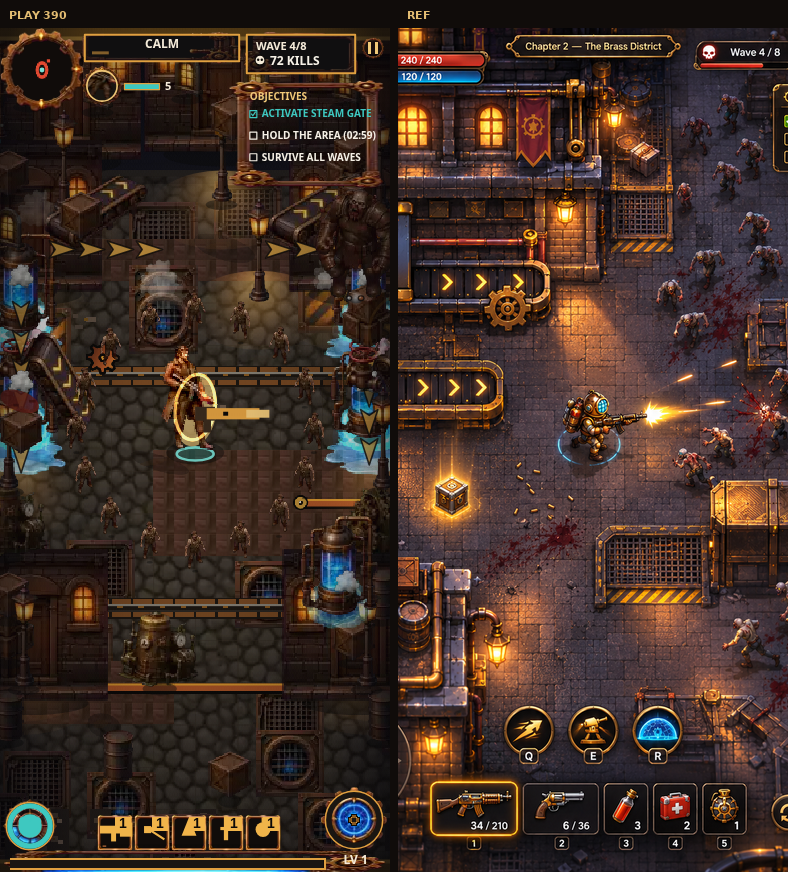
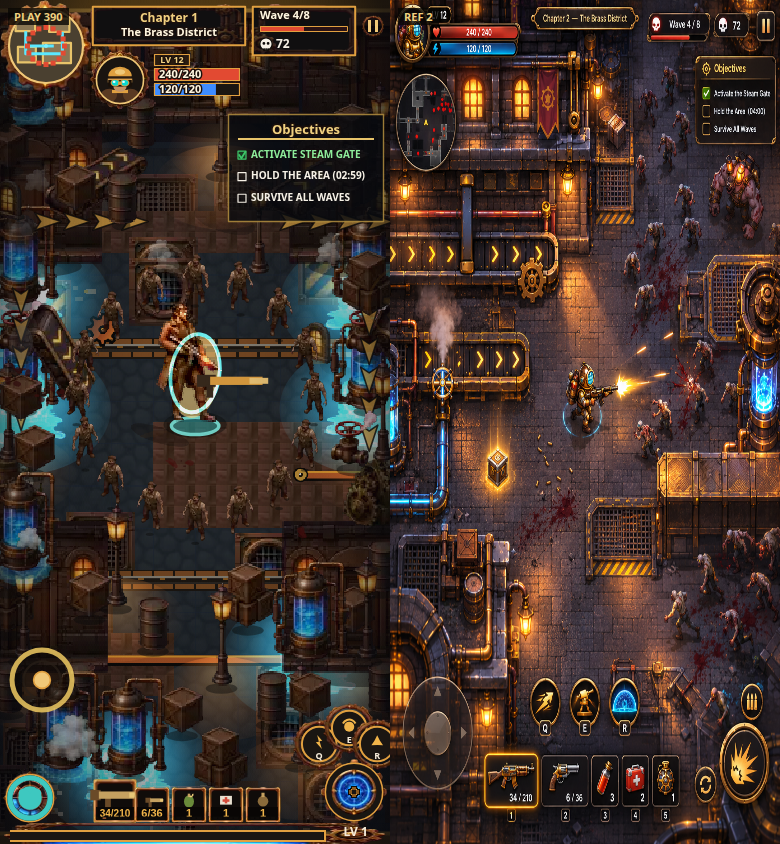
fix(hud): bind chapter chrome to live gate and hold
The #58 wave chip and objectives card now read World.gate and holdLeft.
Fresh 390 compare shots sit next to both art bible frames.

diff --git a/test/render.test.ts b/test/render.test.ts
@@ -154,6 +154,41 @@ describe("weapon rack", () => {
     expect(texts).toContain("HOLD THE AREA");
     expect(texts).toContain("SURVIVE ALL WAVES");
   });
+
+  it("binds wave kills and hold clock to live chapter state", () => {
+    const texts: string[] = [];
+    const vp = readViewport({ innerWidth: 390, innerHeight: 844, devicePixelRatio: 3 }, ZERO_INSETS);
+    const pv = playView(vp.cssW, vp.cssH);
+    const fit = computeFit(vp.cssW, vp.cssH, vp.dpr, pv.viewW, pv.viewH, ZERO_INSETS);
+    bindHud(layoutHud(vp, fit));
+    const w = createWorld(9);
+    w.wave = 4;
+    w.kills = 72;
+    w.gate = 1;
+    w.holdLeft = 180 * 60;
+    w.rank = 0;
+    drawHud(stubCtx(texts), w);
+    expect(texts).toContain("Wave 4/8");
+    expect(texts).toContain("72");
+    expect(texts).toContain("HOLD THE AREA (03:00)");
+  });
+
+  it("leaves the steam gate open when only rank has risen", () => {
+    const texts: string[] = [];
+    const vp = readViewport({ innerWidth: 390, innerHeight: 844, devicePixelRatio: 3 }, ZERO_INSETS);
+    const pv = playView(vp.cssW, vp.cssH);
+    const fit = computeFit(vp.cssW, vp.cssH, vp.dpr, pv.viewW, pv.viewH, ZERO_INSETS);
+    bindHud(layoutHud(vp, fit));
+    const w = createWorld(10);
+    w.rank = 4;
+    w.wave = 1;
+    w.gate = 0;
+    w.holdLeft = 0;
+    drawHud(stubCtx(texts), w);
+    expect(texts).toContain("Wave 1/8");
+    expect(texts).toContain("HOLD THE AREA");
+    expect(texts.some((t) => t.includes("HOLD THE AREA ("))).toBe(false);
+  });
 });
 
 describe("hurt veil", () => {

diff --git a/test/style-review.test.ts b/test/style-review.test.ts
@@ -162,6 +162,8 @@ describe("visual review gates", () => {
     expect(obj.includes("ACTIVATE STEAM GATE")).toBe(true);
     expect(obj.includes("HOLD THE AREA")).toBe(true);
     expect(obj.includes("SURVIVE ALL WAVES")).toBe(true);
+    expect(obj.includes("objectiveRows")).toBe(true);
+    expect(obj.includes("w.rank > 0")).toBe(false);
     expect(obj.includes("strokeRect")).toBe(true);
     expect(obj.includes("#f6f1e6")).toBe(true);
     expect(hud.includes("Wave ${wave}/${cap}")).toBe(true);
